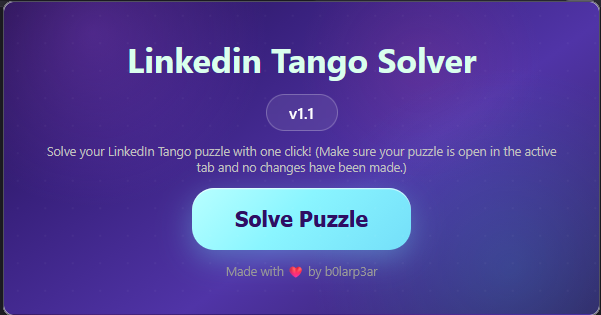
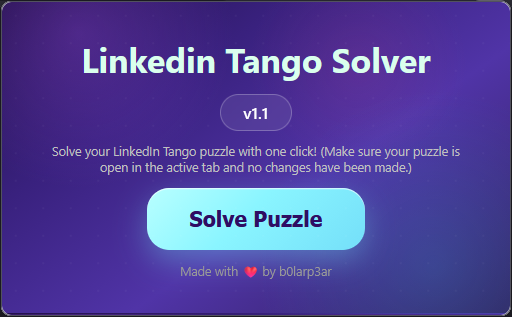
Improved popup UI

diff --git a/popup.css b/popup.css
@@ -17,7 +17,7 @@ body{
             #31205d 100%
         );
     font-family: "Outfit", system-ui, sans-serif;
-    width: 420px;
+    width: 350px;
     padding: 20px;
 }
 